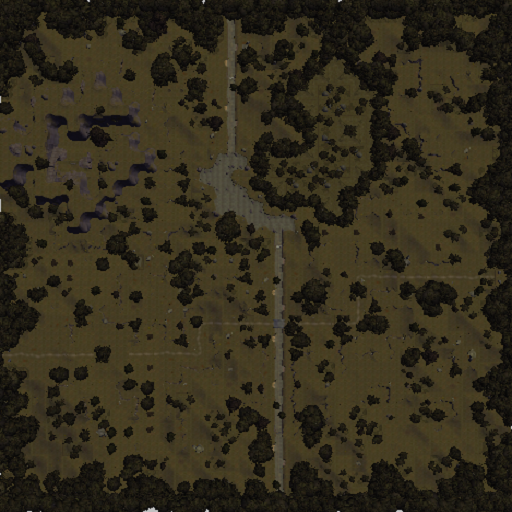
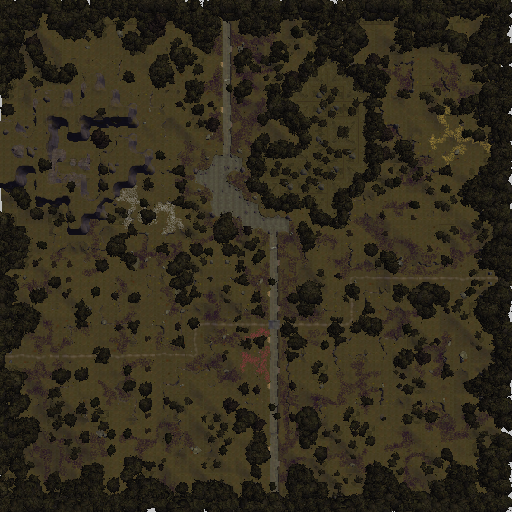
ver210205

diff --git a/square/scroll.js b/square/scroll.js
@@ -1,25 +1,27 @@
 var map = {
-    cols: 14,
+    cols: 16,
     rows: 7,
     tsize: 512,
     csize: 256,
     layers: [[
-        //1         2                  3                  4                  5                  6                 7                  8                 9                  10              11     12     13         14
-        '0map',     '0map',            '0map',            '0map',            '0map',            '0map',           '0map',            '0map',           '0map',            '0map',         '0map','0map','0map',    '0map',
-        '0map',     'CastleTethyr',    '0map',            '0map',            '0map',            '0map',           '0map',            '0map',           '0map',            '0map',         '0map','0map','0map',    '0map',
-        '0map',     'CastleTethyrS',   '0map',            '0map',            '0map',            '0map',           '0map',            '0map',           '0map',            '0map',         '0map','0map','0map',    '0map',
-        'Saharkhan','Barshyr_IthalRd1','Barshyr_IthalRd2','Barshyr_IthalRd3','Barshyr_IthalRd4','Ithmon_WCatFrm1','Ithmon_WCatFrm2', 'Ithmon_LorCrsRd','Ithmon_IthRd1',   'Ithmon_IthRd2','0map','0map','0map',    '0map',
-        '0map',     '0map',            '0map',            '0map',            '0map',            '0map',           'Ithmon_LorFarmNW','Ithmon_LorFarmN','Ithmon_LorFarmNE','0map',         '0map','0map','0map',    '0map',
-        '0map',     '0map',            '0map',            '0map',            '0map',            '0map',           'Ithmon_LorFarmW', 'Loranse',        'Ithmon_LorFarmE', '0map',         '0map','0map','Darromar','0map',
-        '0map',     '0map',            '0map',            '0map',            '0map',            '0map',           '0map',            '0map',           '0map',            '0map',         '0map','0map','0map',    '0map'
+        //1         2           3                  4                  5                  6                  7                 8                  9                 10                 11              12               13               14           15            16
+        '0map',     '0map',     '0map',            '0map',            '0map',            '0map',            '0map',           '0map',            '0map',           '0map',            '0map',         '0map',          '0map',          '0map',      '0map',       '0map',
+        '0map',     '0map',     'CastleTethyr',    '0map',            '0map',            '0map',            '0map',           '0map',            '0map',           '0map',            '0map',         '0map',          '0map',          '0map',      '0map',       '0map',
+        '0map',     '0map',     'CastleTethyrS',   '0map',            '0map',            '0map',            '0map',           '0map',            '0map',           '0map',            '0map',         '0map',          '0map',          '0map',      '0map',       '0map',
+        '0map',     'Saharkhan','Barshyr_IthalRd1','Barshyr_IthalRd2','Barshyr_IthalRd3','Barshyr_IthalRd4','Ithmon_WCatFrm1','Ithmon_WCatFrm2', 'Ithmon_LorCrsRd','Ithmon_IthRd1',   'Ithmon_IthRd2','RvrShr_IthalRd','DarroFarmNW',   'DarroFarmN','DarroFarmNE','0map',
+        '0map',     '0map',     '0map',            '0map',            '0map',            '0map',            '0map',           'Ithmon_LorFarmNW','Ithmon_LorFarmN','Ithmon_LorFarmNE','0map',         'RvrShr_IthFrmW','RvrShr_IthFrmE','Darromar',  '0map',       '0map',
+        '0map',     '0map',     '0map',            '0map',            '0map',            '0map',            '0map',           'Ithmon_LorFarmW', 'Loranse',        'Ithmon_LorFarmE', '0map',         '0map',          '0map',          '0map',      '0map',       '0map',
+        '0map',     '0map',     '0map',            '0map',            '0map',            '0map',            '0map',           '0map',            '0map',           '0map',            '0map',         '0map',          '0map',          '0map',      '0map',       '0map'
     ], [
-        0,0,0,0,0,0,0,0,0,0,0,0,0,0,
-        0,0,0,0,0,0,0,0,0,0,0,0,0,0,
-        0,0,0,0,0,0,0,0,0,0,0,0,0,0,
-        0,0,0,0,0,0,0,0,0,0,0,0,0,0,
-        0,0,0,0,0,0,0,0,0,0,0,0,0,0,
-        0,0,0,0,0,0,0,0,0,0,0,0,0,0,
-        0,0,0,0,0,0,0,0,0,0,0,0,0,0
+      //                  10
+      //1 2 3 4 5 6 7 8 9   1 2 3 4 5 6  
+        0,0,0,0,0,0,0,0,0,0,0,0,0,0,0,0,
+        0,0,0,0,0,0,0,0,0,0,0,0,0,0,0,0,
+        0,0,0,0,0,0,0,0,0,0,0,0,0,0,0,0,
+        0,0,0,0,0,0,0,0,0,0,0,0,0,0,0,0,
+        0,0,0,0,0,0,0,0,0,0,0,0,0,0,0,0,
+        0,0,0,0,0,0,0,0,0,0,0,0,0,0,0,0,
+        0,0,0,0,0,0,0,0,0,0,0,0,0,0,0,0
     ]],
     getTile: function (layer, col, row) {
         return this.layers[layer][row * map.cols + col];

diff --git a/square/no-scroll.js b/square/no-scroll.js
@@ -1,17 +1,17 @@
 var map = {
-    cols: 14,
+    cols: 16,
     rows: 7,
     tsize: 512,
     csize: 100,
     tiles: [
-        //1         2                  3                  4                  5                  6                 7                  8                 9                  10              11     12     13         14
-        '0map',     '0map',            '0map',            '0map',            '0map',            '0map',           '0map',            '0map',           '0map',            '0map',         '0map','0map','0map',    '0map',
-        '0map',     'CastleTethyr',    '0map',            '0map',            '0map',            '0map',           '0map',            '0map',           '0map',            '0map',         '0map','0map','0map',    '0map',
-        '0map',     'CastleTethyrS',   '0map',            '0map',            '0map',            '0map',           '0map',            '0map',           '0map',            '0map',         '0map','0map','0map',    '0map',
-        'Saharkhan','Barshyr_IthalRd1','Barshyr_IthalRd2','Barshyr_IthalRd3','Barshyr_IthalRd4','Ithmon_WCatFrm1','Ithmon_WCatFrm2', 'Ithmon_LorCrsRd','Ithmon_IthRd1',   'Ithmon_IthRd2','0map','0map','0map',    '0map',
-        '0map',     '0map',            '0map',            '0map',            '0map',            '0map',           'Ithmon_LorFarmNW','Ithmon_LorFarmN','Ithmon_LorFarmNE','0map',         '0map','0map','0map',    '0map',
-        '0map',     '0map',            '0map',            '0map',            '0map',            '0map',           'Ithmon_LorFarmW', 'Loranse',        'Ithmon_LorFarmE', '0map',         '0map','0map','Darromar','0map',
-        '0map',     '0map',            '0map',            '0map',            '0map',            '0map',           '0map',            '0map',           '0map',            '0map',         '0map','0map','0map',    '0map'
+        //1         2           3                  4                  5                  6                  7                 8                  9                 10                 11              12               13               14           15            16
+        '0map',     '0map',     '0map',            '0map',            '0map',            '0map',            '0map',           '0map',            '0map',           '0map',            '0map',         '0map',          '0map',          '0map',      '0map',       '0map',
+        '0map',     '0map',     'CastleTethyr',    '0map',            '0map',            '0map',            '0map',           '0map',            '0map',           '0map',            '0map',         '0map',          '0map',          '0map',      '0map',       '0map',
+        '0map',     '0map',     'CastleTethyrS',   '0map',            '0map',            '0map',            '0map',           '0map',            '0map',           '0map',            '0map',         '0map',          '0map',          '0map',      '0map',       '0map',
+        '0map',     'Saharkhan','Barshyr_IthalRd1','Barshyr_IthalRd2','Barshyr_IthalRd3','Barshyr_IthalRd4','Ithmon_WCatFrm1','Ithmon_WCatFrm2', 'Ithmon_LorCrsRd','Ithmon_IthRd1',   'Ithmon_IthRd2','RvrShr_IthalRd','DarroFarmNW',   'DarroFarmN','DarroFarmNE','0map',
+        '0map',     '0map',     '0map',            '0map',            '0map',            '0map',            '0map',           'Ithmon_LorFarmNW','Ithmon_LorFarmN','Ithmon_LorFarmNE','0map',         'RvrShr_IthFrmW','RvrShr_IthFrmE','Darromar',  '0map',       '0map',
+        '0map',     '0map',     '0map',            '0map',            '0map',            '0map',            '0map',           'Ithmon_LorFarmW', 'Loranse',        'Ithmon_LorFarmE', '0map',         '0map',          '0map',          '0map',      '0map',       '0map',
+        '0map',     '0map',     '0map',            '0map',            '0map',            '0map',            '0map',           '0map',            '0map',           '0map',            '0map',         '0map',          '0map',          '0map',      '0map',       '0map'
     ],
     getTile: function (col, row) {
         return this.tiles[row * map.cols + col];

diff --git a/square/no-scroll.html b/square/no-scroll.html
@@ -17,10 +17,11 @@
 
 <div class="main-wrapper">
     <div id='d1' style="position:relative; top:0px; left:-256px; z-index:1"> 
-        <canvas id="demo" width="1000" height="600"></canvas>
+        <canvas id="demo" width="1600" height="700"></canvas>
     </div>
 
     <footer class="main-footer">
+        <p><a href="square/no-scroll.html">Hi-Res Scrolling Map</a></p>
         <p>Back to <a href="../index.html" target="_top">Main</a>.</p>
     </footer>
 </div><!-- main wrapper -->

diff --git a/square/scroll.html b/square/scroll.html
@@ -21,6 +21,7 @@
     </div>
 
     <footer class="main-footer">
+        <p><a href="square/no-scroll.html">Low-Res Full Size Map</a></p>
         <p>Back to <a href="../index.html" target="_top">Main</a>.</p>
     </footer>
 </div><!-- main wrapper -->
